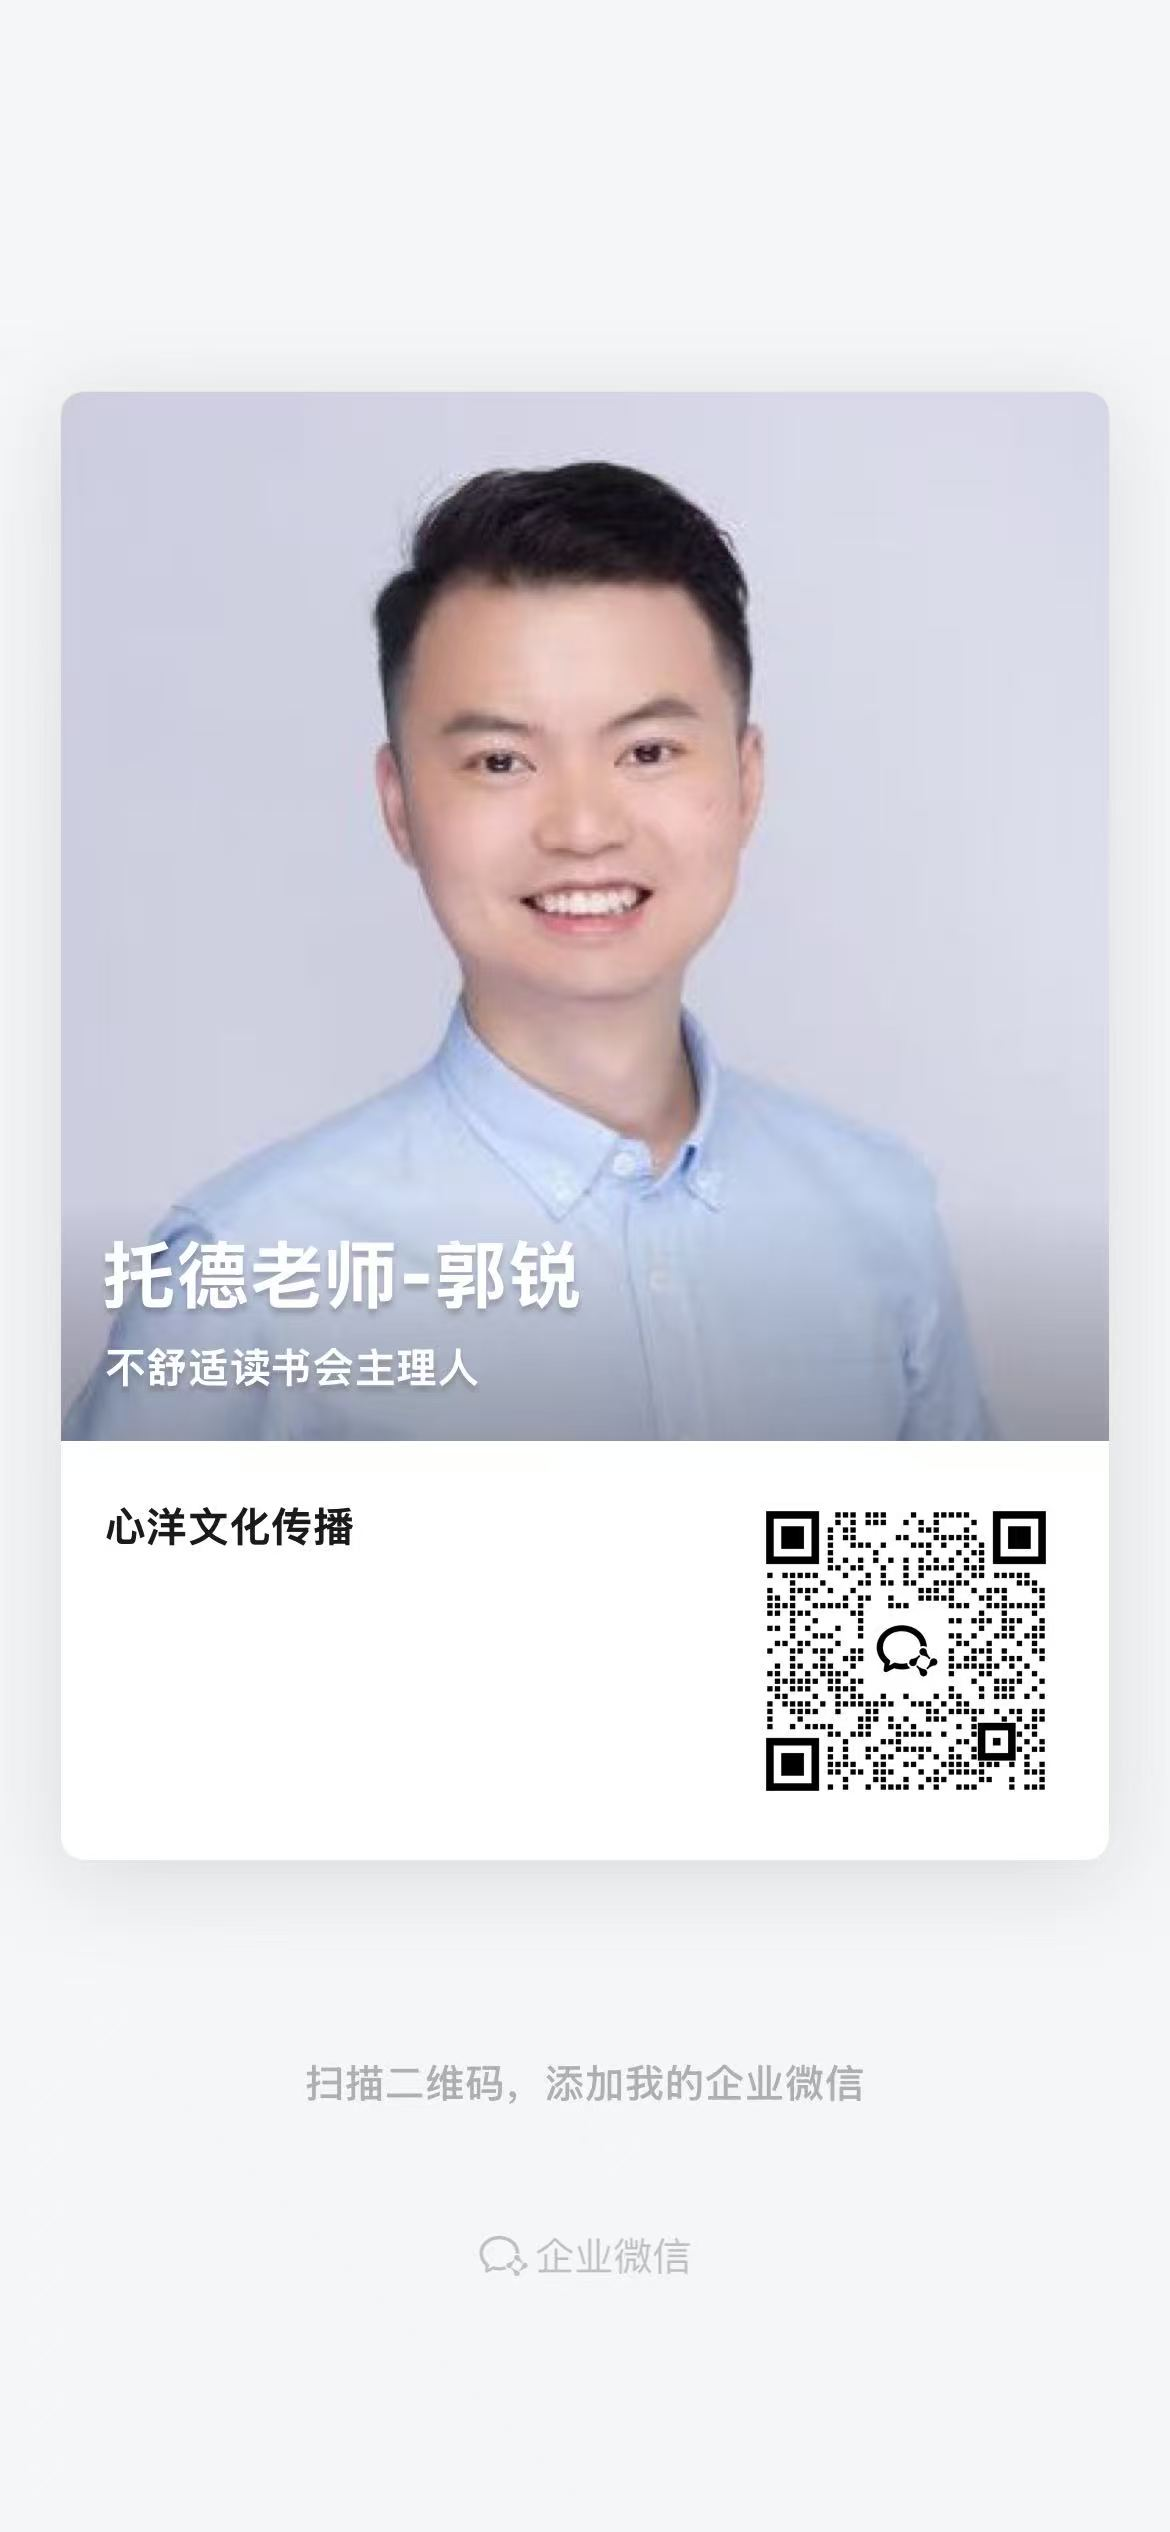
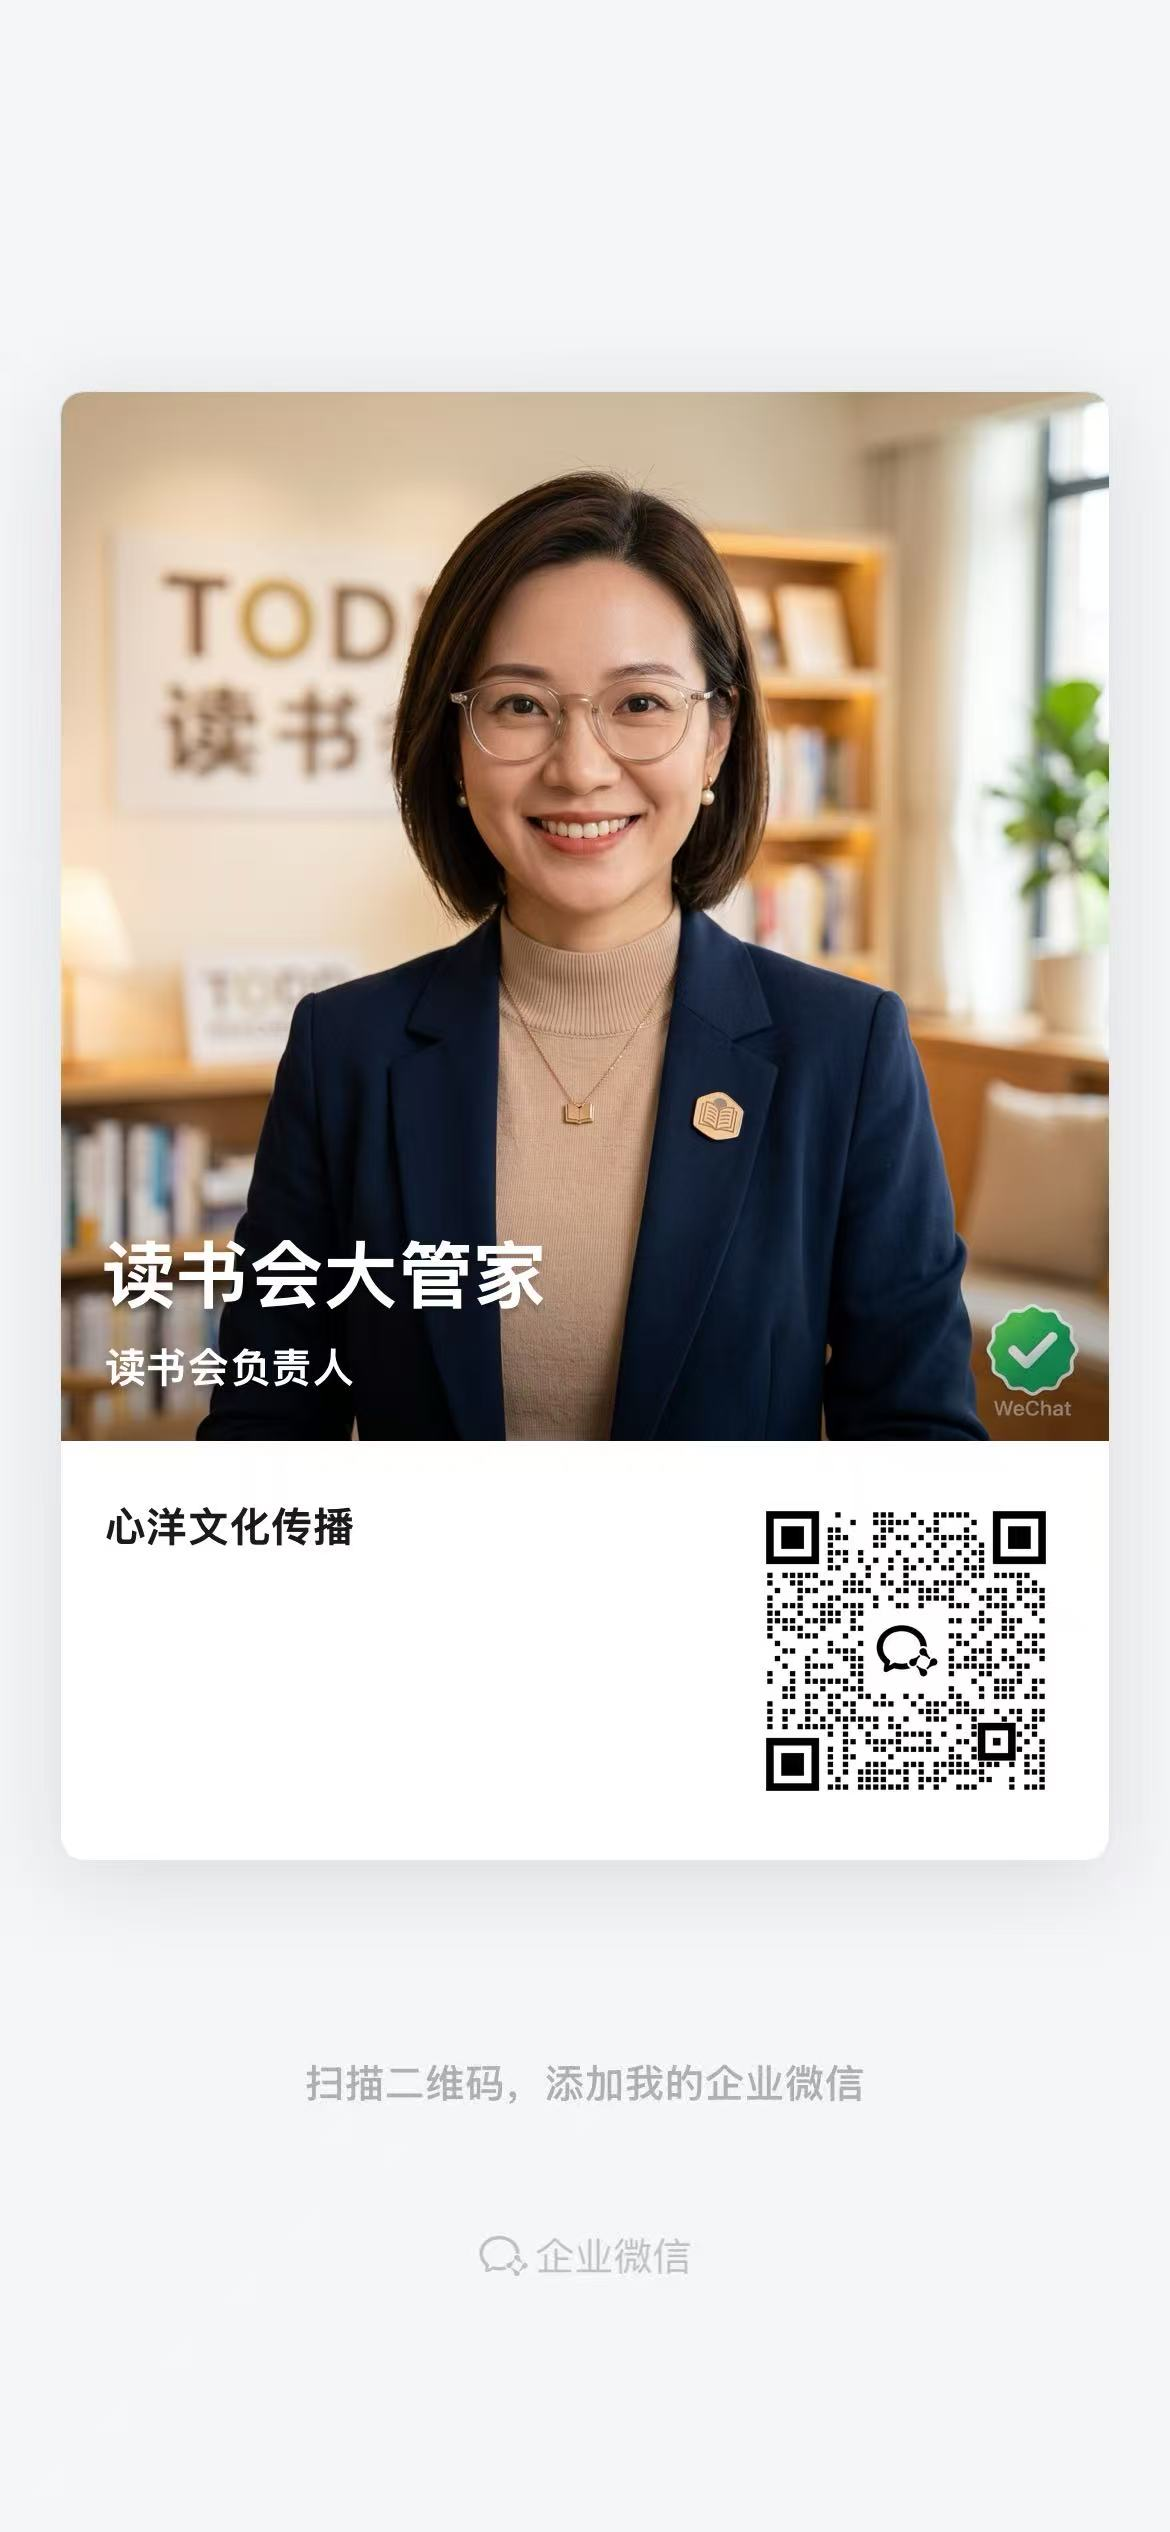
fix: update contact QR

diff --git a/public/cloud-store.js b/public/cloud-store.js
@@ -52,8 +52,8 @@ function injectContactInterface() {
     '<button class="dialog-close-button" type="button" aria-label="关闭">×</button>',
     '<p class="eyebrow">联系托德学院</p>',
     '<h2>扫码添加企业微信</h2>',
-    '<p>产品反馈、内容合作与训练建议，欢迎通过企业微信联系托德老师。</p>',
-    '<img src="/assets/todd-academy-wechat.jpg" alt="托德老师企业微信二维码" />',
+    '<p>产品反馈、读书会咨询与训练建议，欢迎通过企业微信联系读书会大管家。</p>',
+    '<img src="/assets/todd-academy-wechat.jpg?v=20260929b" alt="读书会大管家企业微信二维码" />',
     '<small>请使用微信扫描二维码</small>',
     '</div>'
   ].join("");

diff --git a/public/emotion.html b/public/emotion.html
@@ -65,7 +65,7 @@
         </nav>
       </footer>
     </div>
-    <script src="./cloud-store.js?v=20260929a"></script>
+    <script src="./cloud-store.js?v=20260929b"></script>
     <script src="./emotion-lexicon.js?v=20260925b"></script>
     <script src="./emotion.js?v=20260925b"></script>
   </body>

diff --git a/public/logic-training.html b/public/logic-training.html
@@ -118,7 +118,7 @@
         </nav>
       </footer>
     </div>
-    <script src="./cloud-store.js?v=20260929a"></script>
+    <script src="./cloud-store.js?v=20260929b"></script>
     <script src="./logic-training.js?v=20260907e"></script>
   </body>
 </html>

diff --git a/public/admin/index.html b/public/admin/index.html
@@ -42,7 +42,7 @@
         </section>
       </main>
     </div>
-    <script src="../cloud-store.js?v=20260929a"></script>
+    <script src="../cloud-store.js?v=20260929b"></script>
     <script src="./admin.js?v=20260925a"></script>
   </body>
 </html>

diff --git a/public/empathy.html b/public/empathy.html
@@ -85,7 +85,7 @@
         </nav>
       </footer>
     </div>
-    <script src="./cloud-store.js?v=20260929a"></script>
+    <script src="./cloud-store.js?v=20260929b"></script>
     <script src="./empathy.js?v=20260929a"></script>
   </body>
 </html>

diff --git a/public/cognitive.html b/public/cognitive.html
@@ -162,7 +162,7 @@
       </footer>
     </div>
 
-    <script src="./cloud-store.js?v=20260929a"></script>
+    <script src="./cloud-store.js?v=20260929b"></script>
     <script src="./cognitive.js?v=20260907e"></script>
   </body>
 </html>

diff --git a/public/index.html b/public/index.html
@@ -227,7 +227,7 @@
       </footer>
     </div>
 
-    <script src="./cloud-store.js?v=20260929a"></script>
+    <script src="./cloud-store.js?v=20260929b"></script>
     <script src="./app.js?v=20260907e"></script>
   </body>
 </html>

diff --git a/public/manual.html b/public/manual.html
@@ -206,6 +206,6 @@
         </nav>
       </footer>
     </div>
-    <script src="./cloud-store.js?v=20260929a"></script>
+    <script src="./cloud-store.js?v=20260929b"></script>
   </body>
 </html>

diff --git a/public/listening.html b/public/listening.html
@@ -77,6 +77,6 @@
         </nav>
       </footer>
     </div>
-    <script src="./cloud-store.js?v=20260929a"></script>
+    <script src="./cloud-store.js?v=20260929b"></script>
   </body>
 </html>
